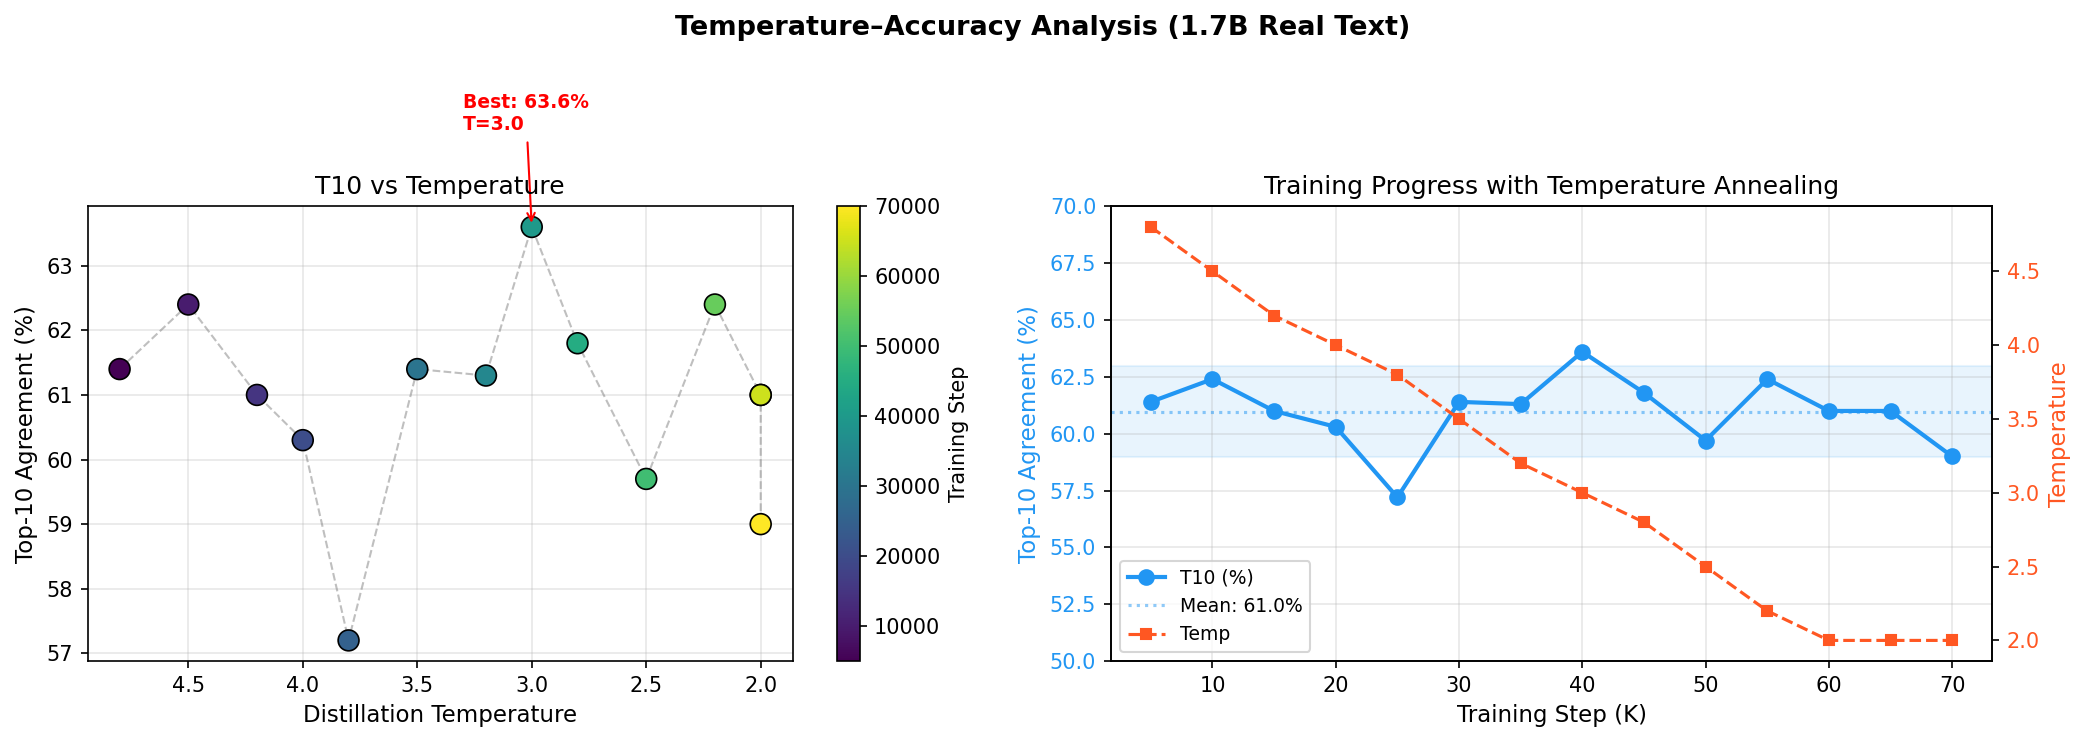
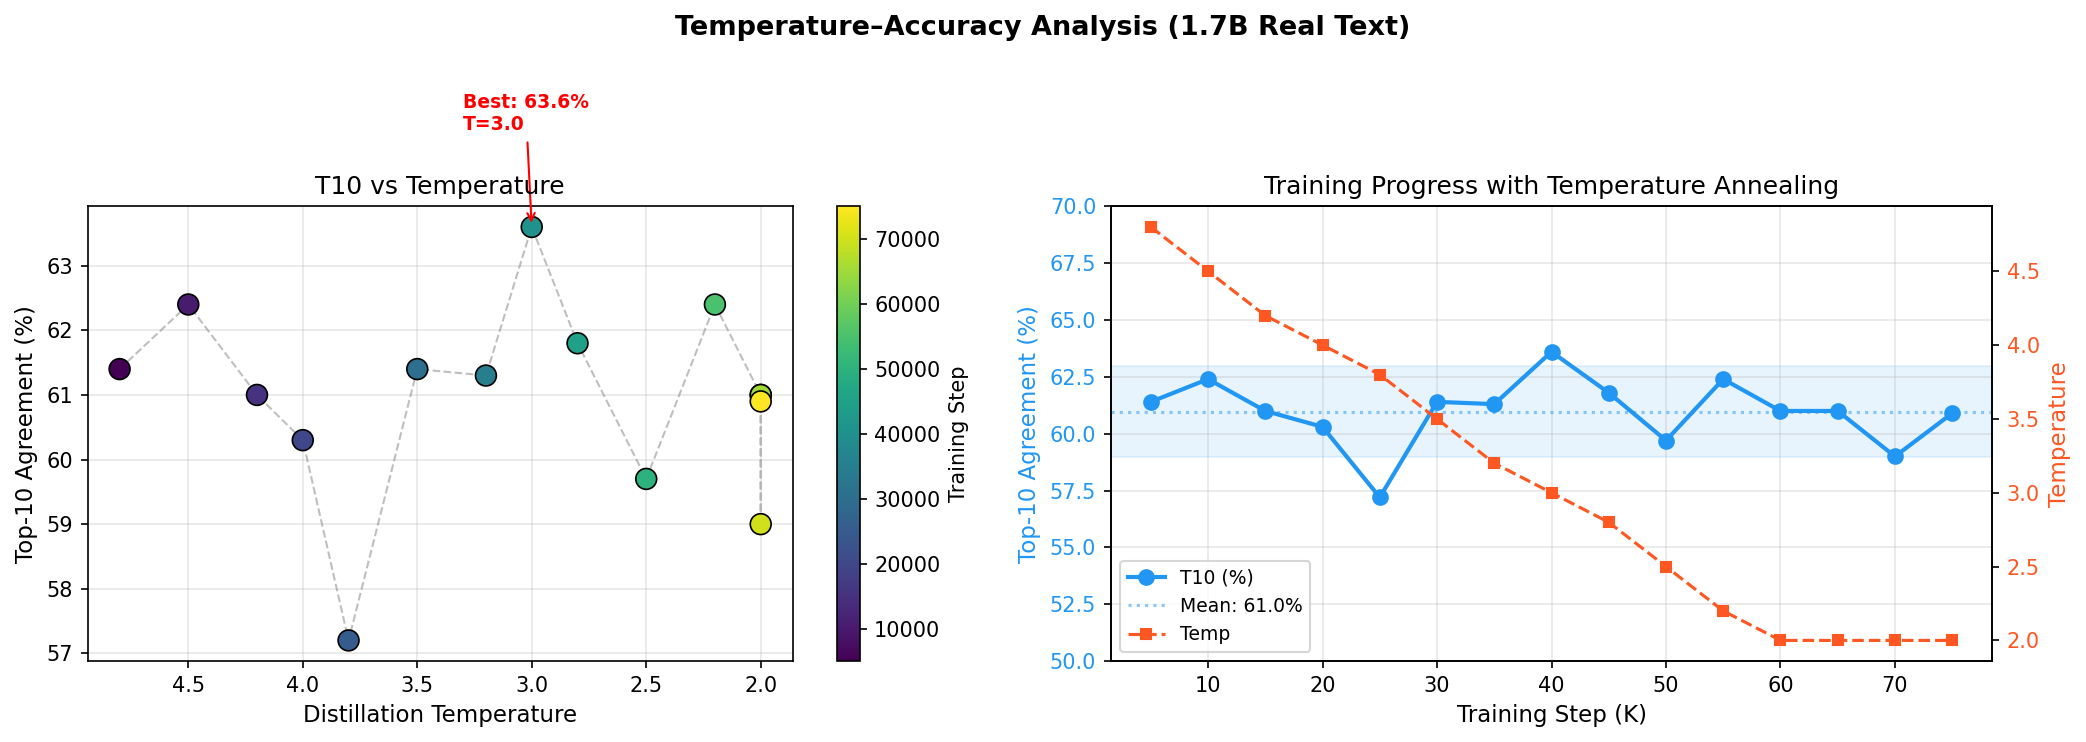
1.7B 75K data (T10=60.9%, confirming 60-61% plateau), regenerate figures

diff --git a/analyze_training.py b/analyze_training.py
@@ -65,6 +65,7 @@ def get_1_7b_real_text() -> Experiment:
         (60000, 49.74, 28.0, 61.0, 2.0, 7746),
         (65000, 50.40, 38.0, 61.0, 2.0, 8356),
         (70000, 48.94, 37.0, 59.0, 2.0, 8968),
+        (75000, 49.13, 42.0, 60.9, 2.0, 9547),
     ]
     for step, loss, t1, t10, temp, elapsed in data:
         exp.points.append(TrainingPoint(step, loss, t1, t10, temp, elapsed))

diff --git a/STATUS.md b/STATUS.md
@@ -147,7 +147,7 @@ This means FRR compression applies to nearly everything:
 | GPU | Experiment | Status | Latest | Notes |
 |-----|-----------|--------|--------|-------|
 | 0 | **8B Real Text 50K (streaming, RAM-preloaded)** | **Step 0/50K** | T1=2.0% T10=13.0% loss=535.0 | **5.9x faster: 66s vs 390s per eval step** |
-| 1 | 1.7B Real Text 100K | Step 70K/100K | T1=37% T10=59.0% | T at minimum 2.0, T10 oscillating |
+| 1 | 1.7B Real Text 100K | Step 75K/100K | T1=42% T10=60.9% | T10 plateau ~60-61% at T=2.0 |
 
 ### SELECTIVE STUDENT — Experiment 1 COMPLETE (0.6B, 15K steps)
 | Step | Loss | T1 | T10 | Elapsed |
@@ -212,6 +212,7 @@ This means FRR compression applies to nearly everything:
 | 60000 | 49.74 | 28.0% | 61.0% | 2.0 | 7746s | T at minimum |
 | 65000 | 50.40 | 38.0% | 61.0% | 2.0 | 8356s | T10 stable plateau |
 | 70000 | 48.94 | 37.0% | 59.0% | 2.0 | 8968s | T10 dips, loss drops |
+| 75000 | 49.13 | 42.0% | 60.9% | 2.0 | 9547s | T10 bounces back |
 
 **50K HellaSwag + WikiText-2 Evaluation:**
 | Model | HellaSwag | WikiText-2 PPL |

diff --git a/PAPER_DRAFT.md b/PAPER_DRAFT.md
@@ -186,6 +186,7 @@ We validate FRR on Qwen3-1.7B (2B parameters, 28 layers, hidden=2048), comparing
 | Qwen3-1.7B | Real text | 60K | 28% | 61.0% | 52x | 29.4M |
 | Qwen3-1.7B | Real text | 65K | 38% | 61.0% | 52x | 29.4M |
 | Qwen3-1.7B | Real text | 70K | 37% | 59.0% | 52x | 29.4M |
+| Qwen3-1.7B | Real text | 75K | 42% | 60.9% | 52x | 29.4M |
 
 Two scaling dimensions emerge:
 
@@ -376,6 +377,7 @@ We have shown that a single transformer block, applied recursively 28 times with
 | 60K | 49.74 | 28% | 61.0% | 2.0 | 7746s | T at minimum |
 | 65K | 50.40 | 38% | 61.0% | 2.0 | 8356s | T10 plateau |
 | 70K | 48.94 | 37% | 59.0% | 2.0 | 8968s | T10 dips, loss drops |
+| 75K | 49.13 | 42% | 60.9% | 2.0 | 9547s | T10 bounces back |
 
 **HellaSwag at 50K: FRR 28.0% vs Teacher 31.3% = 89.4% retention. WikiText-2 PPL: FRR 1322.2 vs Teacher 670.7.**
 
